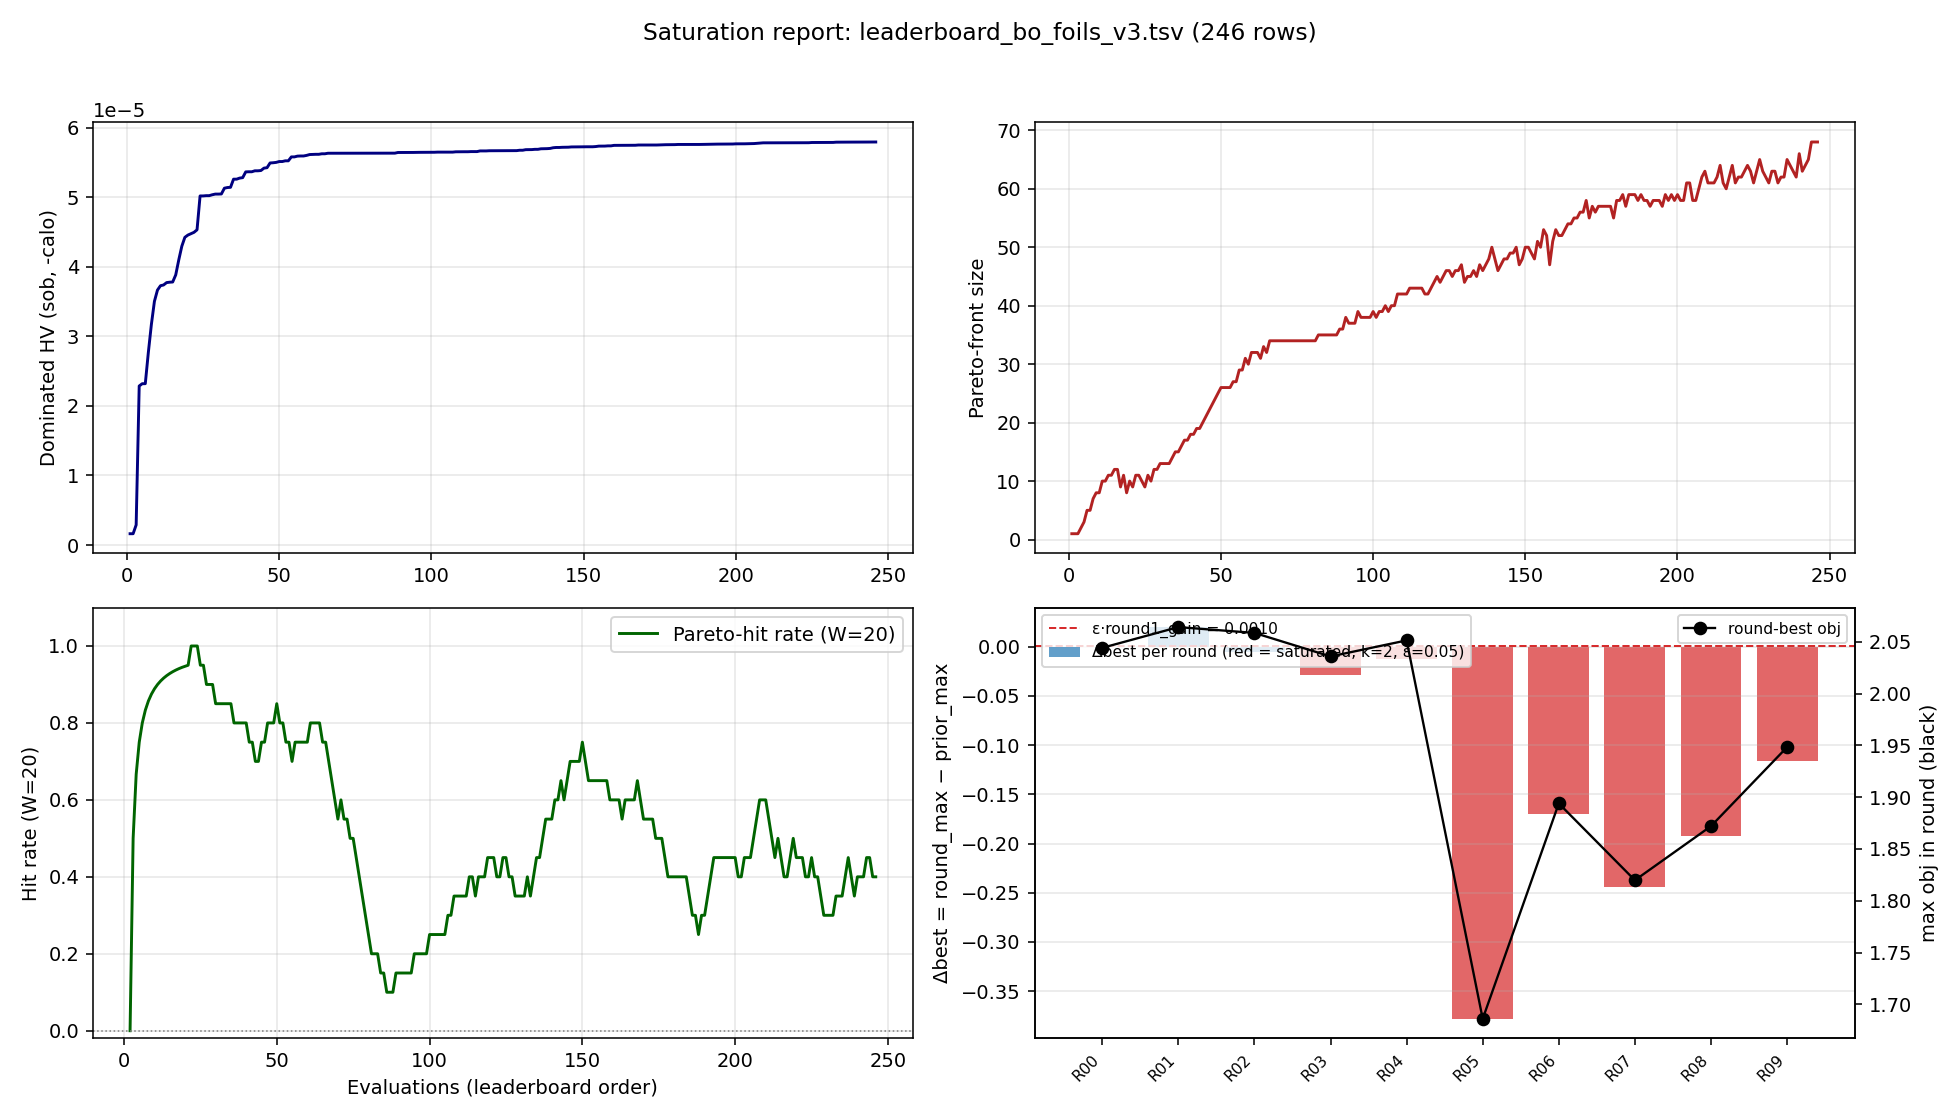
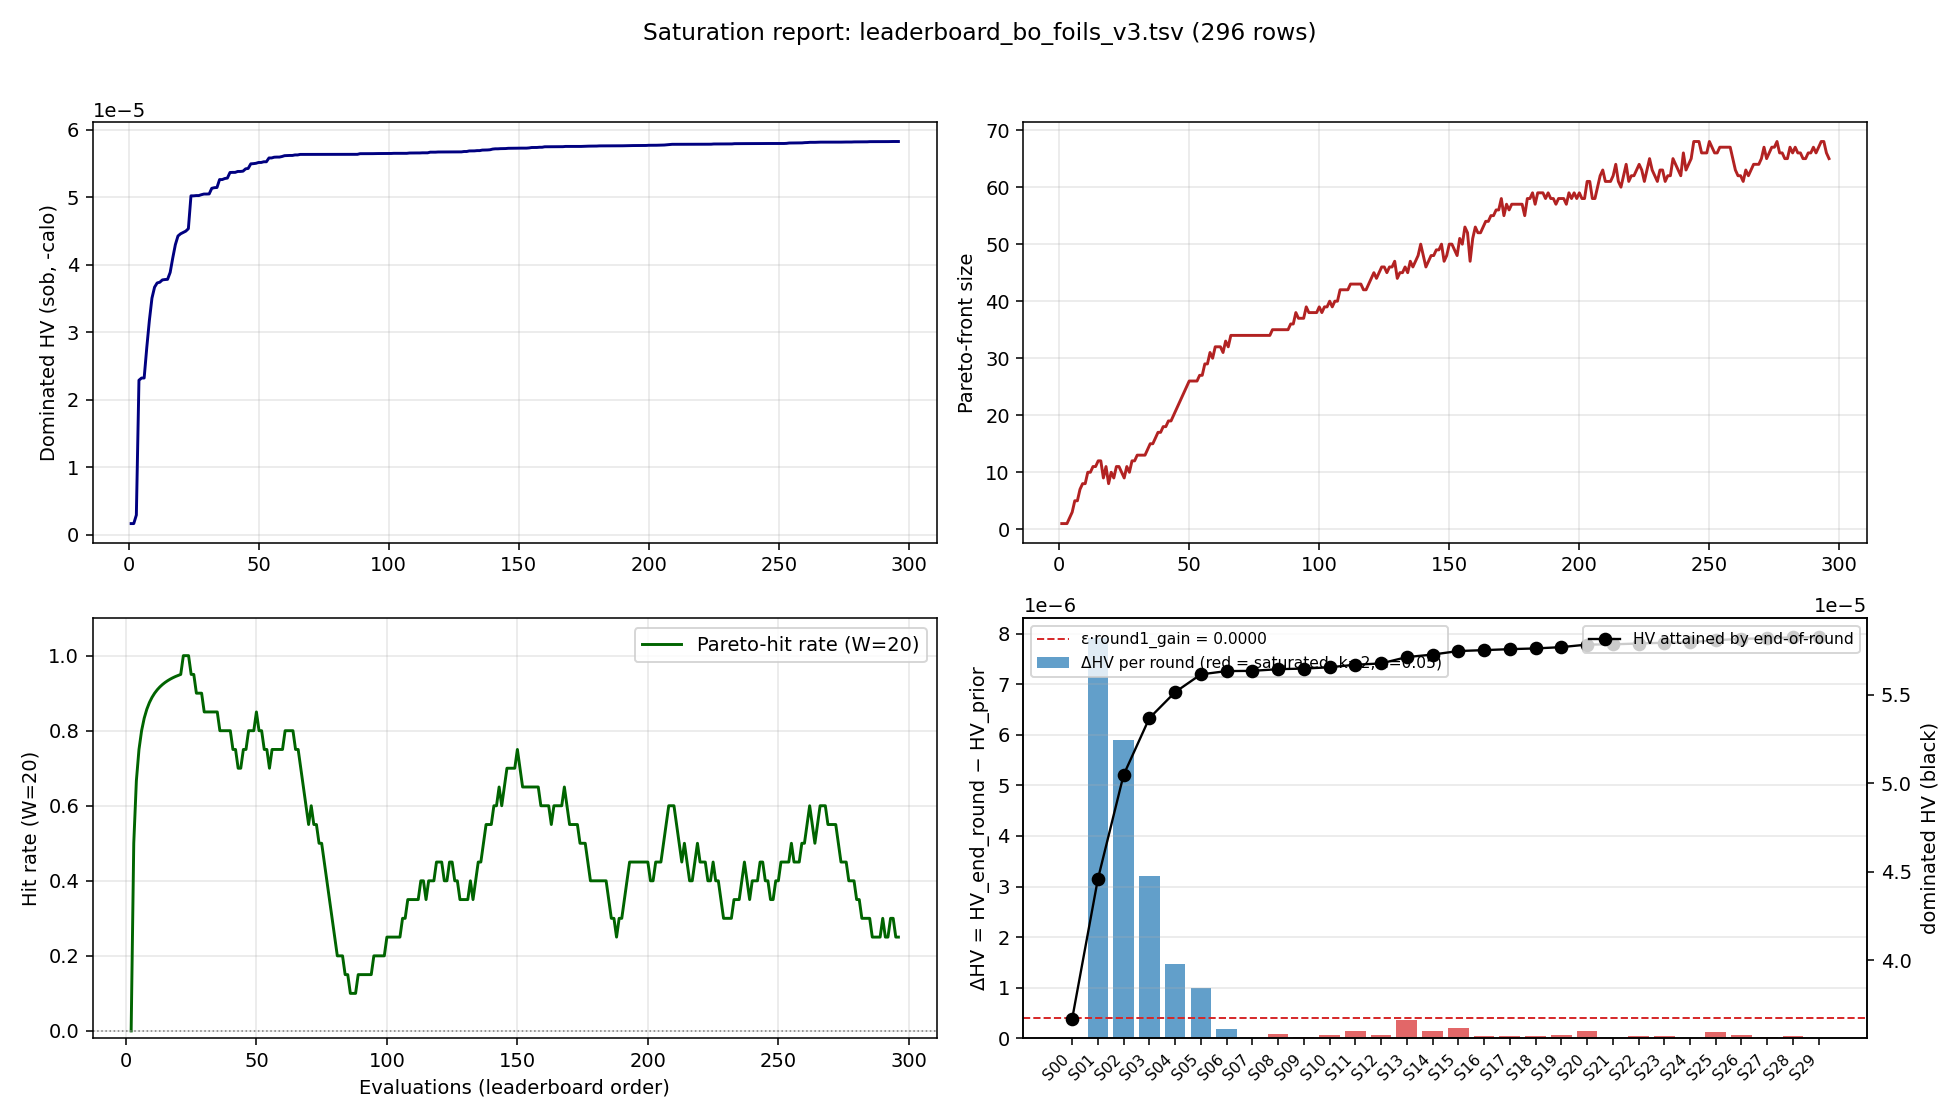
docs: refresh foils deck (foilsf07 complete, n=297)
- new top-3 #2: foilsf07R00_00 sob=3.88 @ calo=2.15e-5
- 5 campaigns saturate at sob≈3.88-3.89 across independent restarts
- regenerated GP cloud + 2x2 all-v3 saturation panel (ΔHV regret)

diff --git a/docs/foils_talk.md b/docs/foils_talk.md
@@ -67,7 +67,7 @@ them in parallel on the grid, repeat.
 </div>
 <div>
 
-GP density over the 6-D space, **247 evals**; **gold = exploration picks**.
+GP density over the 6-D space, **297 evals**; **gold = exploration picks**.
 
 - Exploration maps the **whole front** in one campaign.
 - The **off-axis big-hole corner** (far left, low `S/√B`): a thin ring at large
@@ -82,7 +82,7 @@ GP density over the 6-D space, **247 evals**; **gold = exploration picks**.
 
 ## The result: best S/√B at a calo budget
 
-Just *"how much signal if you cap the calo background at B?"* (**247 evals**):
+Just *"how much signal if you cap the calo background at B?"* (**297 evals**):
 
 <style scoped>
   .geom-tbl { font-size: 15px; border-collapse: collapse; margin-top: -4px; }
@@ -176,14 +176,14 @@ Just *"how much signal if you cap the calo background at B?"* (**247 evals**):
   <td>114.6</td><td>31.8</td><td>0.136</td>
 </tr>
 <tr>
-  <td>2</td><td class="name">foilsf06R04_04</td><td>3.880</td><td>2.13e-5</td>
-  <td>102.0</td><td>15.3</td><td>0.064</td>
-  <td>107.3</td><td>34.2</td><td>0.141</td>
+  <td>2</td><td class="name">foilsf07R00_00</td><td>3.880</td><td>2.15e-5</td>
+  <td>111.5</td><td>39.0</td><td>0.060</td>
+  <td>114.5</td><td>46.7</td><td>0.132</td>
 </tr>
 <tr>
-  <td>3</td><td class="name">foilsf02R00_03</td><td>3.880</td><td>2.16e-5</td>
-  <td>118.5</td><td>0.0</td><td>0.050</td>
-  <td>119.5</td><td>19.5</td><td>0.109</td>
+  <td>3</td><td class="name">foilsf06R04_04</td><td>3.880</td><td>2.13e-5</td>
+  <td>102.0</td><td>15.3</td><td>0.064</td>
+  <td>107.3</td><td>34.2</td><td>0.141</td>
 </tr>
 </table>
 
@@ -193,7 +193,7 @@ Just *"how much signal if you cap the calo background at B?"* (**247 evals**):
 
 - **All three converged to the same geometry family**: rOut ≈ 115–137 mm, **upstream hT pinned at the lower bound (0.050 mm)** + **downstream slightly thicker** (0.11–0.14 mm), small upstream hole + small downstream hole.
 - S/√B values within **0.5%** — the front is **flat at the top**; any of the three is operationally equivalent.
-- Picked across **3 separate campaigns** (foilsf02 / foilsf03 / foilsf06), independent restarts — strong evidence the optimum is real, not a single-run artefact.
+- Picked across **3 separate campaigns** (foilsf03 / foilsf06 / foilsf07), independent restarts — strong evidence the optimum is real, not a single-run artefact.
 
 </div>
 
@@ -209,7 +209,7 @@ Just *"how much signal if you cap the calo background at B?"* (**247 evals**):
 
 <div style="font-size: 18px; margin-top: 4px; text-align: center;">
 
-**VERDICT: SATURATED** — picker maps the front rather than climbing it (247 evals, Δbest negative for 6+ rounds).
+**VERDICT: SATURATED** — picker maps the front rather than climbing it (297 evals, ΔHV near zero for 10+ rounds).
 
 </div>
 
@@ -217,6 +217,6 @@ Just *"how much signal if you cap the calo background at B?"* (**247 evals**):
 
 ## Status & next steps
 
-- **Campaign so far:** 247 evals across 10+ rounds of qLogNEHVI (q = 10).
+- **Campaign so far:** 297 evals across 15+ rounds of qLogNEHVI (q = 10).
   GP is under-identified on the small training set (length_scale rails to
   1000 mm), but the picker keeps advancing the front.